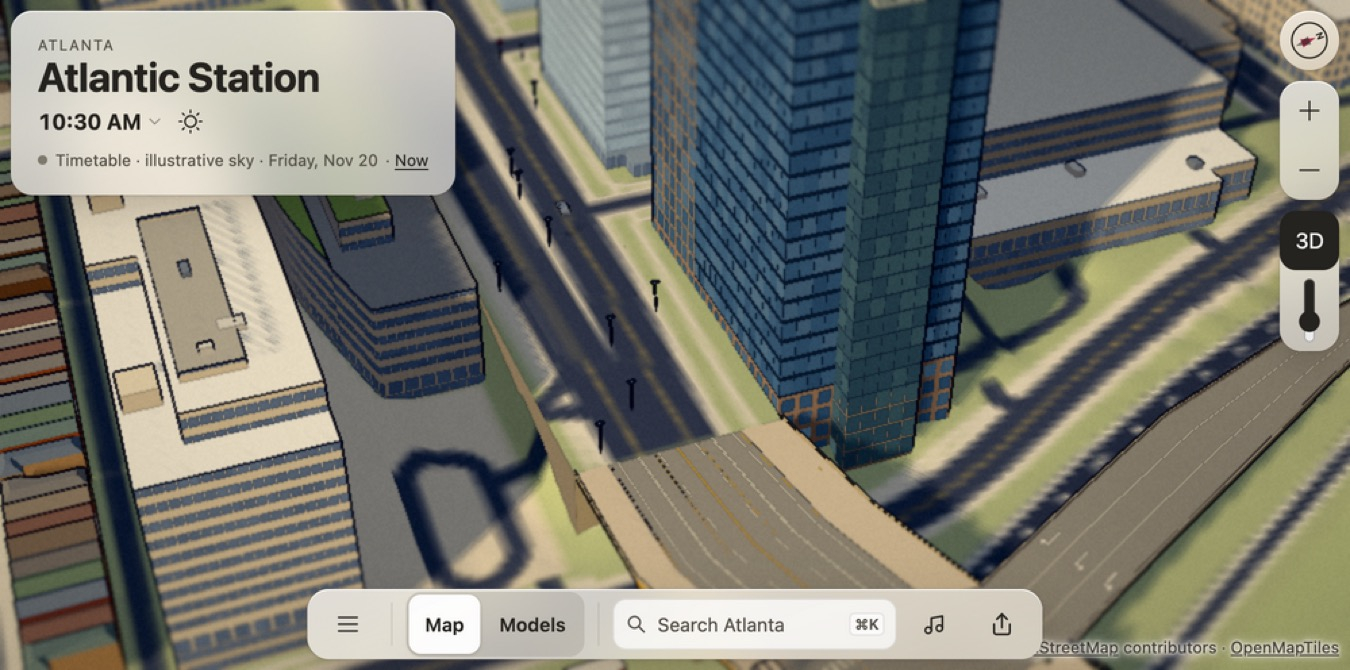
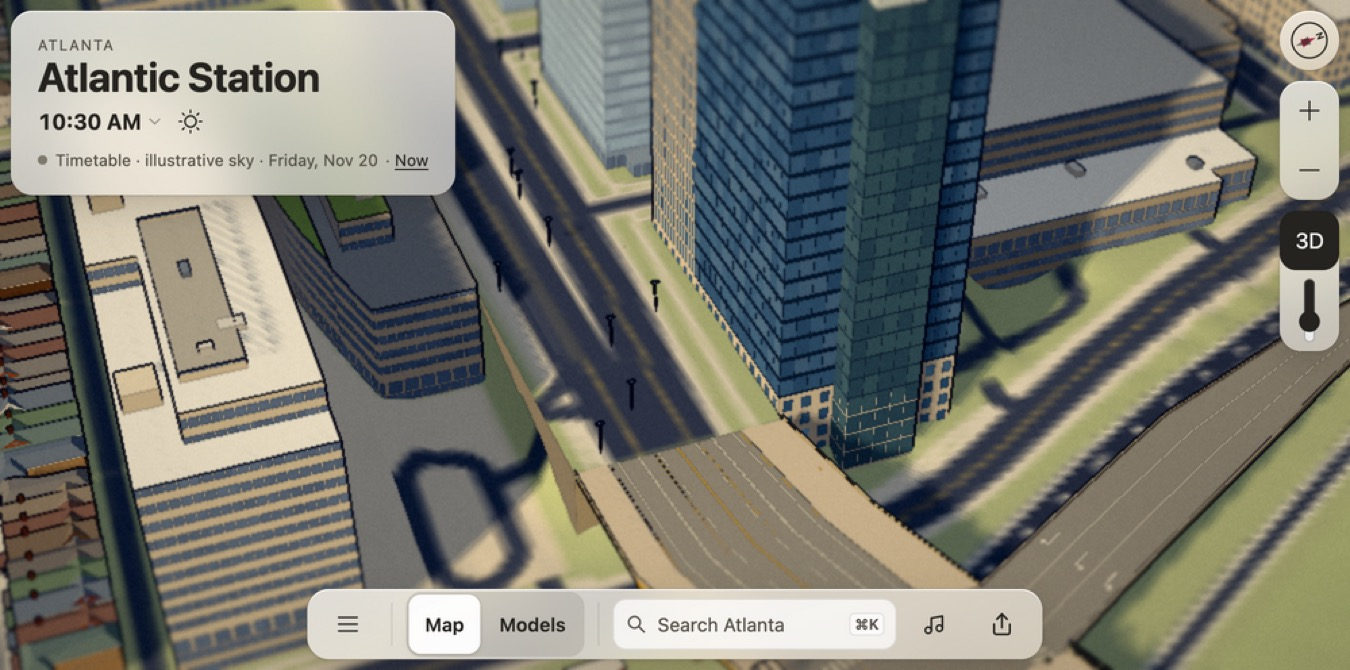
Light 171 Seventeenth's crown evenly and show its pale stone base

diff --git a/web/src/city/171-seventeenth.ts b/web/src/city/171-seventeenth.ts
@@ -49,28 +49,38 @@ export function createSeventeenthTower(buildings: VBuilding[], site: VBuilding, 
   const west = plan(westWing.rings[0]);
   const shaft = plan(office.rings[0]);
   const spine = plan(lightwell.rings[0]);
-  shell.prism(perimeter, shell.base, podium, '#ac9380', '#817e76');
+  shell.prism(perimeter, shell.base, podium, '#d8cfbf', '#817e76');
   faces(perimeter, false, (a, b) => {
     // The lightwell carries its own glazing through the stone base.
     if ([a, b].every(([x, z]) => spine.some(([sx, sz]) => x === sx && z === sz))) return;
-    shell.facade(a, b, floor + 0.5, podium - 0.3, 4, 3.5, 0.68, 0.73, glass, 0.13);
+    shell.facade(a, b, floor + 0.5, podium - 0.3, 4, 3.5, 0.5, 0.62, glass, 0.13);
   });
   const shoulder = floor + office.h;
   const crownBase = shoulder - 4;
-  shell.prism(west, podium, floor + westWing.h, '#a29484', '#81847e');
-  faces(west, true, (a, b) => shell.facade(a, b, podium, floor + westWing.h - 0.7, 17, 3.4, 0.72, 0.8, glass, 0.08));
+  // Pale stone piers about 1.7 m apart frame narrow office windows on the west wing.
+  shell.prism(west, podium, floor + westWing.h, '#cfc6b7', '#81847e');
+  faces(west, true, (a, b) => shell.facade(a, b, podium, floor + westWing.h - 0.7, 17, 1.7, 0.5, 0.8, glass, 0.08));
   shell.prism(shaft, podium, shoulder, '#414d58', '#757e84');
   faces(shaft, true, (a, b) => shell.facade(a, b, podium, shoulder - 0.8, 19, 2.8, 0.965, 0.8, glass, 0.09));
 
-  // The glazed central return reaches to the street, then changes to a backlit crown.
+  // The glazed central return reaches to the street, then changes to a backlit crown:
+  // one even glass panel per face, divided only by thin mullions that stay dark at night.
   shell.prism(spine, podium, crownBase, '#4b5a61', '#647074');
   const crownTop = floor + lightwell.h;
-  shell.prism(spine, crownBase, crownTop, '#596269', '#8b969a');
-  faces(spine, true, (a, b) => {
-    shell.facade(a, b, floor + 0.5, crownBase, 22, 2.9, 0.95, 0.92, ['#597178', '#627c80'], 0.075);
-    shell.facade(a, b, crownBase, shoulder, 4, 2.9, 0.96, 0.88, ['#afbab2', '#bac2b6'], 1);
-  });
-  faces(spine, false, (a, b) =>
-    shell.facade(a, b, shoulder, crownTop - 0.24, 8, 2.9, 0.96, 0.88, ['#afbab2', '#bac2b6'], 1));
+  shell.prism(spine, crownBase, crownTop, '#c3ccc8', '#9aa3a4');
+  faces(spine, true, (a, b) =>
+    shell.facade(a, b, floor + 0.5, crownBase, 22, 2.9, 0.95, 0.92, ['#597178', '#627c80'], 0.075));
+  const crown = (a: P2, b: P2, length: number, lo: number, hi: number) => {
+    const at = (t: number, y: number, depth: number): [number, number, number] =>
+      [a[0] + t * (b[0] - a[0]) + depth * (b[1] - a[1]) / length, y, a[1] + t * (b[1] - a[1]) - depth * (b[0] - a[0]) / length];
+    shell.lights.quad(at(0, lo, 0.06), at(0, hi, 0.06), at(1, hi, 0.06), at(1, lo, 0.06), '#d8e3e1');
+    const count = Math.max(1, Math.round(length / 2.9));
+    for (let i = 1; i < count; i++) {
+      const l = i / count - 0.07 / length, r = i / count + 0.07 / length;
+      shell.body.quad(at(l, lo, 0.1), at(l, hi, 0.1), at(r, hi, 0.1), at(r, lo, 0.1), '#7f8b8e');
+    }
+  };
+  faces(spine, true, (a, b, length) => crown(a, b, length, crownBase, shoulder));
+  faces(spine, false, (a, b, length) => crown(a, b, length, shoulder, crownTop - 0.24));
   return shell.finish('#fff0cb', 0.72);
 }
